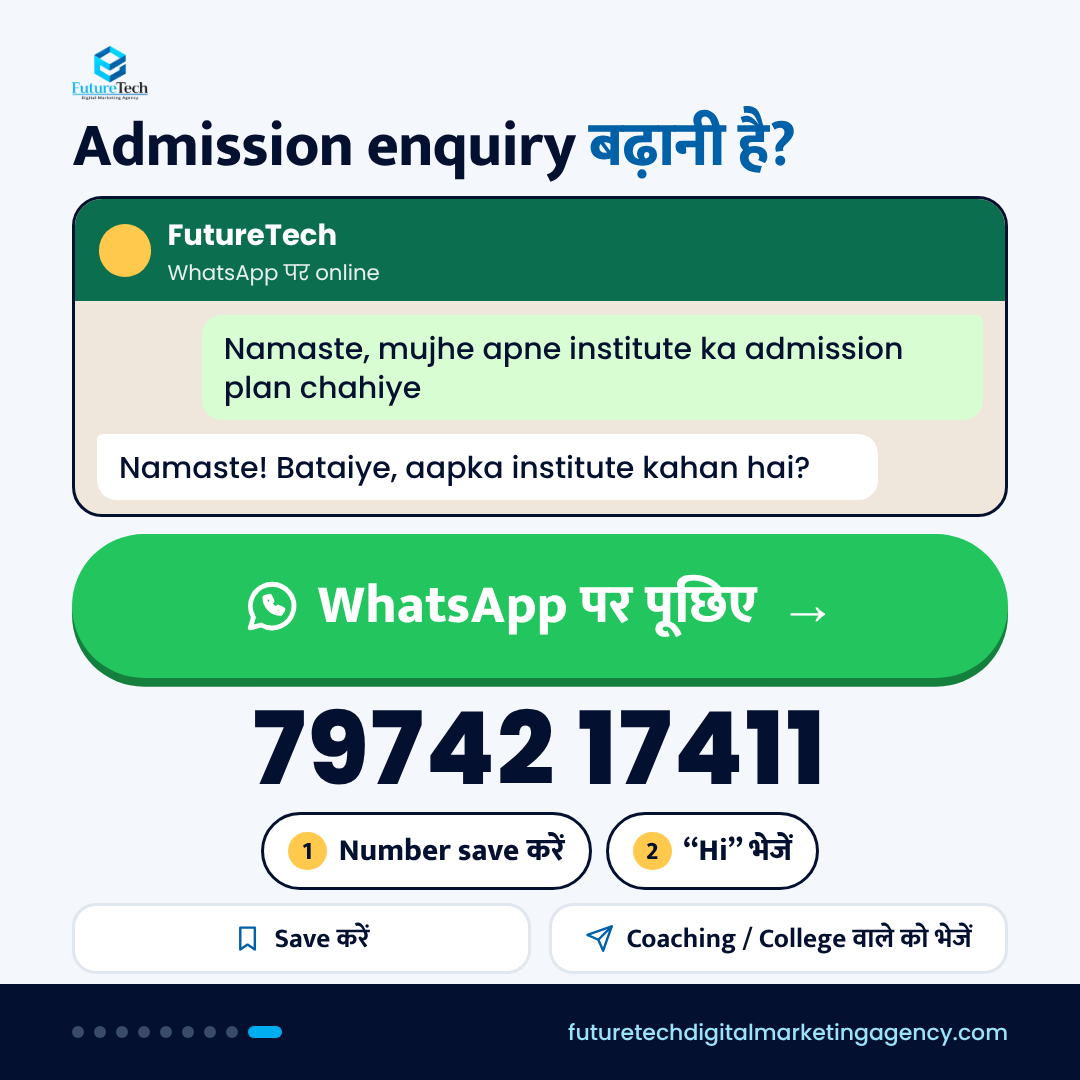
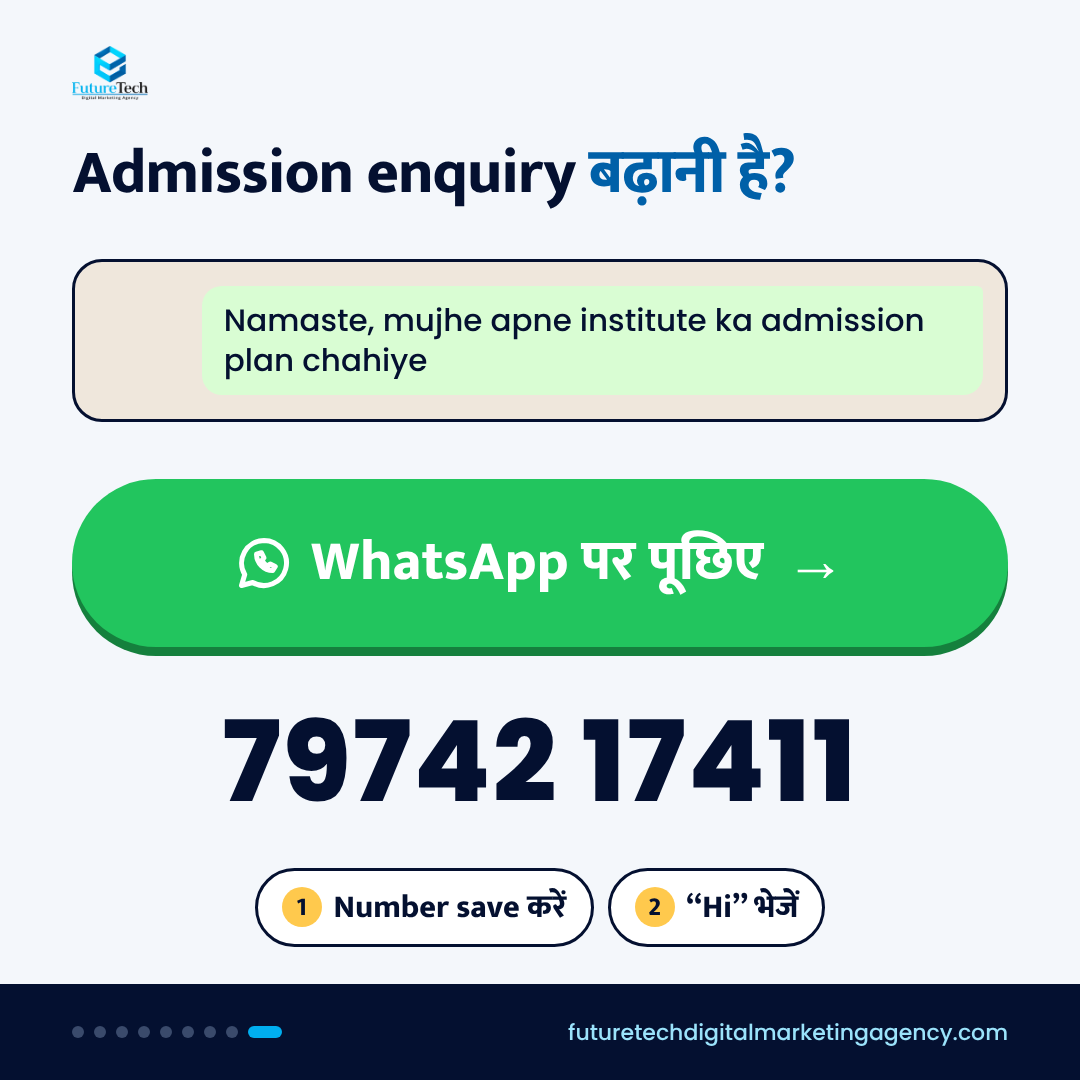
Shorter CTA closer: headline, one chat bubble, big button, number, 2 steps

Changed region(s): [[0.0611, 0.0917, 0.9472, 0.8861]]

diff --git a/tools/engine/lib.js b/tools/engine/lib.js
@@ -158,26 +158,22 @@ function slide(f, s, i, n, opt = {}) {
 // CTA slide: conversation-style closer (chat preview + big WhatsApp button + number + 2 steps)
 function ctaSlide(f, s, i, n, code) {
   const sm = f.H <= 1100;
-  const pills = (s.recap || []).map(r => `<span>${ic('check', '#16A34A', 3)}${r.t}</span>`).join('');
   return `<div class="page cta ${sm ? 'sm' : ''}" style="--cs:1">${header(s.chip || '')}<div class="bd"><h1>${s.h}</h1>
-<div class="csub">${s.csub || 'सीधे WhatsApp पर पूछिए — हम जवाब देंगे।'}</div>
-<div class="cchat"><div class="cch"><i></i><div><b>FutureTech</b><small>WhatsApp पर online</small></div></div><div class="cbub out">${s.ask || 'Namaste, mujhe aapke baare mein jaanna hai'}</div><div class="cbub in">${s.reply || 'Namaste! Bataiye, main kya madad karun?'}</div></div>
+<div class="cchat"><div class="cbub out">${s.ask || 'Namaste, mujhe aapke baare mein jaanna hai'}</div></div>
 <div class="cbtn"><span class="bi">${ic('wa', '#fff', 2)}</span>WhatsApp पर पूछिए<span class="car">→</span></div>
 <div class="cnum">79742 17411</div>
-<div class="csteps"><span><b>1</b> Number save करें</span><span><b>2</b> “Hi” भेजें</span></div>
-<div class="cpills">${pills}</div>
-<div class="sv"><div><span>${ic('save')}</span>Save करें</div><div><span>${ic('send')}</span>${s.share || 'दोस्त को भेजें'}</div></div></div>
+<div class="csteps"><span><b>1</b> Number save करें</span><span><b>2</b> “Hi” भेजें</span></div></div>
 <div class="ft">${dots(i, n)}<div class="web">futuretechdigitalmarketingagency.com</div></div></div>`;
 }
 const ctaCss = f => `
 .cta .bd>*{flex:0 0 auto}.cta .bd{justify-content:space-evenly;padding-bottom:10px}.cta h1{margin-top:calc(var(--cs)*14px)}
 .csub{font-family:Mukta;font-weight:600;font-size:calc(var(--cs)*36px);line-height:1.25;color:#5F6B7A;margin-top:6px}
-.cchat{background:#EFE7DC;border:3px solid ${NV};border-radius:30px;overflow:hidden;margin-top:calc(var(--cs)*16px)}
+.cchat{background:#EFE7DC;border:3px solid ${NV};border-radius:30px;overflow:hidden;margin-top:calc(var(--cs)*24px);padding:calc(var(--cs)*10px) 0}
 .cch{display:flex;gap:16px;align-items:center;background:#0B6E4F;color:#fff;padding:calc(var(--cs)*14px) 24px}.cch i{width:calc(var(--cs)*54px);height:calc(var(--cs)*54px);border-radius:50%;background:${GD};display:block;flex:0 0 auto}.cch b{display:block;font-size:calc(var(--cs)*30px)}.cch small{font-size:calc(var(--cs)*22px);opacity:.9}
 .cbub{margin:calc(var(--cs)*14px) 22px;padding:calc(var(--cs)*14px) 22px;border-radius:20px;font-size:calc(var(--cs)*31px);line-height:1.3;max-width:84%;font-weight:500}.cbub.out{background:#D9FDD3;margin-left:auto;border-top-right-radius:6px}.cbub.in{background:#fff;border-top-left-radius:6px}
-.cbtn{display:flex;align-items:center;justify-content:center;gap:16px;background:${GR};color:#fff;border-radius:80px;padding:calc(var(--cs)*24px) 20px;margin-top:calc(var(--cs)*18px);font-family:Mukta;font-weight:800;font-size:calc(var(--cs)*56px);box-shadow:0 calc(var(--cs)*9px) 0 #15803D}.cbtn .bi{width:calc(var(--cs)*60px);height:calc(var(--cs)*60px);display:block}.cbtn .car{font-size:calc(var(--cs)*60px);margin-left:6px}
-.cnum{text-align:center;font-size:calc(var(--cs)*104px);font-weight:800;letter-spacing:2px;color:${NV};margin-top:calc(var(--cs)*16px);line-height:1.1}
-.csteps{display:flex;gap:14px;justify-content:center;margin-top:calc(var(--cs)*8px)}.csteps span{display:flex;align-items:center;gap:12px;background:#fff;border:3px solid ${NV};border-radius:50px;padding:calc(var(--cs)*10px) 24px;font-family:Mukta;font-weight:800;font-size:calc(var(--cs)*32px)}.csteps b{display:inline-flex;width:calc(var(--cs)*40px);height:calc(var(--cs)*40px);border-radius:50%;background:${GD};align-items:center;justify-content:center;font-size:calc(var(--cs)*26px)}
+.cbtn{display:flex;align-items:center;justify-content:center;gap:16px;background:${GR};color:#fff;border-radius:90px;padding:calc(var(--cs)*34px) 20px;margin-top:calc(var(--cs)*30px);font-family:Mukta;font-weight:800;font-size:calc(var(--cs)*56px);box-shadow:0 calc(var(--cs)*9px) 0 #15803D}.cbtn .bi{width:calc(var(--cs)*60px);height:calc(var(--cs)*60px);display:block}.cbtn .car{font-size:calc(var(--cs)*60px);margin-left:6px}
+.cnum{text-align:center;font-size:calc(var(--cs)*112px);font-weight:800;letter-spacing:2px;color:${NV};margin-top:calc(var(--cs)*26px);line-height:1.1}
+.csteps{display:flex;gap:14px;justify-content:center;margin-top:calc(var(--cs)*18px)}.csteps span{display:flex;align-items:center;gap:12px;background:#fff;border:3px solid ${NV};border-radius:50px;padding:calc(var(--cs)*10px) 24px;font-family:Mukta;font-weight:800;font-size:calc(var(--cs)*32px)}.csteps b{display:inline-flex;width:calc(var(--cs)*40px);height:calc(var(--cs)*40px);border-radius:50%;background:${GD};align-items:center;justify-content:center;font-size:calc(var(--cs)*26px)}
 .cpills{display:flex;gap:12px;justify-content:center;flex-wrap:wrap;margin-top:calc(var(--cs)*14px)}.cpills span{display:flex;align-items:center;gap:8px;background:#EEF5FC;border-radius:40px;padding:calc(var(--cs)*8px) 18px;font-family:Mukta;font-weight:700;font-size:calc(var(--cs)*27px)}.cpills .ico{width:calc(var(--cs)*28px);height:calc(var(--cs)*28px)}
 .sv{display:flex;gap:18px;margin:calc(var(--cs)*14px) 0 0}.sv div{flex:1;background:#fff;border:3px solid #E1E7EF;border-radius:24px;padding:calc(var(--cs)*10px);display:flex;align-items:center;justify-content:center;gap:12px;font-family:Mukta;font-weight:700;font-size:calc(var(--cs)*28px)}.sv span{width:calc(var(--cs)*30px);height:calc(var(--cs)*30px);display:block}
 .cta.sm h1{font-size:62px!important}.cta.sm .csub,.cta.sm .cpills{display:none}`;
